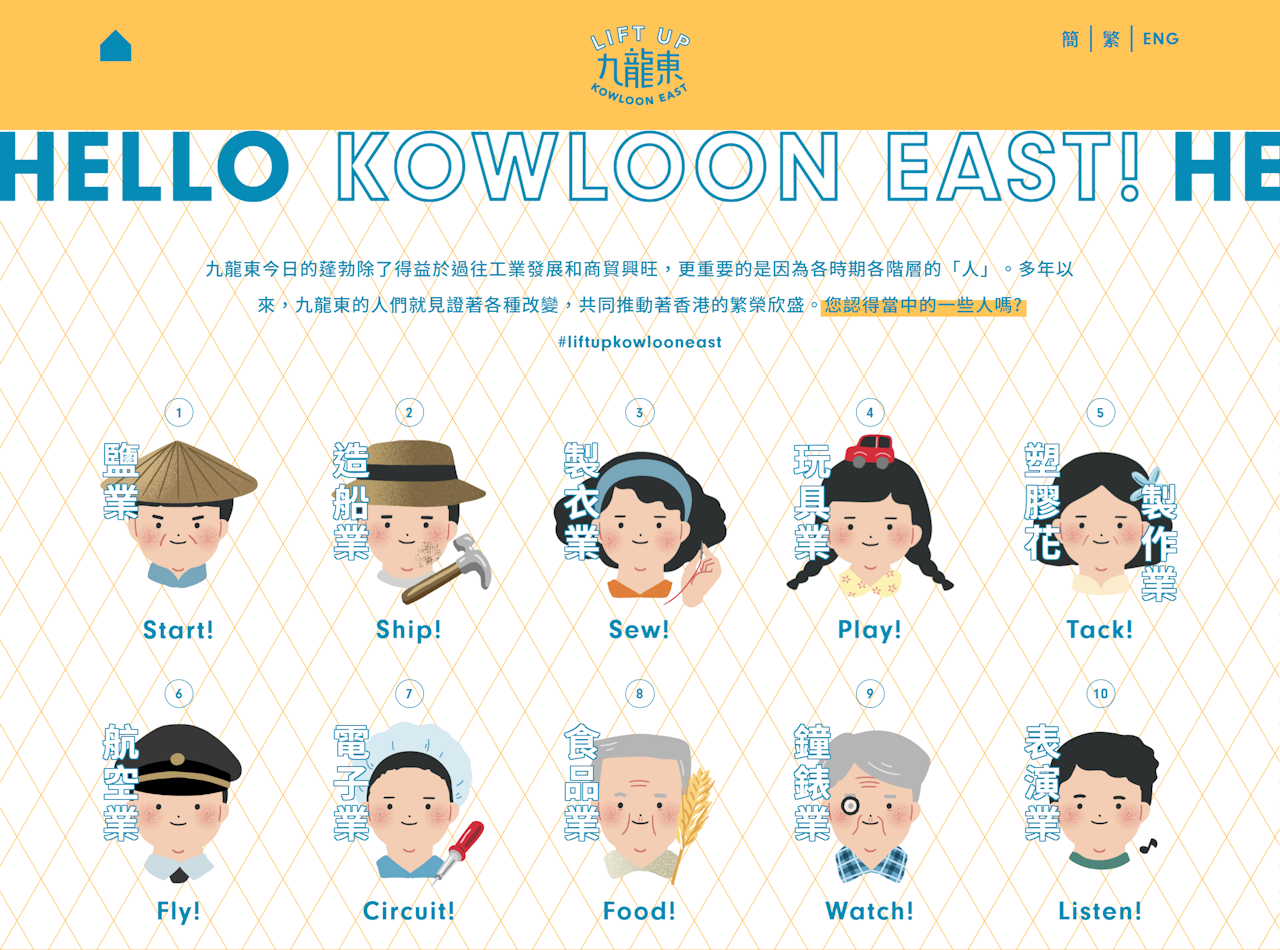
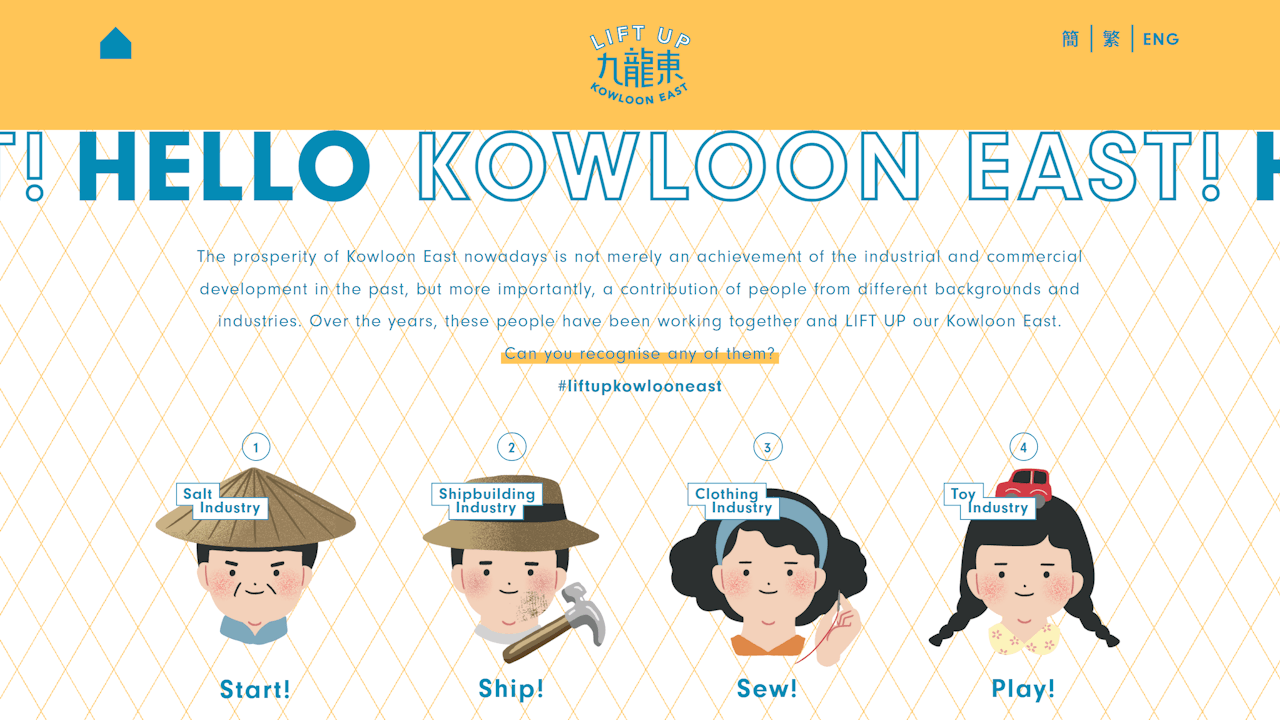
feat: update projects and add detail page

diff --git a/content/about.md b/content/about.md
@@ -1,11 +1,10 @@
-+++
-description = 'Eric Wong is experienced in full stack web development, cybersecurity consulting, penetration testing, red teaming, and project management. Do you have project ideas you want to realize? Get in touch now!'
-+++
+---
+title: 'About me'
+description: 'Eric Wong is experienced in full stack web development, cybersecurity consulting, penetration testing, red teaming, and project management. Do you have project ideas you want to realize? Get in touch now!'
+---
 
-# About me
-
-I enjoy learning new technologies, and are interested in cybersecurity, web development, system optimization, DevOps, and process automation. I am experienced in full stack web development (custom backend, frontend, and SEO), cybersecurity consulting, penetration testing, red teaming, and project management.
+I enjoy learning new technologies, and are interested in cybersecurity, web development, system optimization, DevOps, and process automation. I am experienced in full stack web development (custom backend, frontend, and SEO), cloud infrastructure, cybersecurity consulting, penetration testing, red teaming, and project management.
 
 I am also the creator of [LINE Rangers Handbook](https://rangers.lerico.net), an automatically updated reference website renowned among "LINE Rangers" players.
 
-Do you have project ideas you want to realize? [Get in touch now](mailto:eric@lerico.net) !
+Do you have project ideas you want to realize? [Send me an email](mailto:eric@lerico.net) !

diff --git a/content/projects/2307.lets-think-about-lantau-link.md b/content/projects/2307.lets-think-about-lantau-link.md
@@ -1,0 +1,17 @@
+---
+title: 'Let’s Think about Lantau Link'
+summary: 'Public Engagement Website. Minigame. Proposal submission and voting platform.'
+description: 'The Let’s Think about Lantau Link campaign website provides information about the campaign, collects proposals from the general public, and holds the voting event using a customized backend.'
+
+image: '/images/portfolio/think-lantau-link-viewing-platform.png'
+---
+
+![Homepage Screenshot](/images/portfolio/think-lantau-link-viewing-platform.png)
+
+{{< linkpill "https://www.thinkllvp.com/" >}}Visit campaign website ➜{{% /linkpill %}}
+
+Let's Think about Lantau Link is a campaign for the revitalization of Lantau Link Viewing Platform (LLVP) public engagement program.
+
+The website provides information about the campaign, collects proposals from the general public, and holds the voting event using a customized backend.
+
+A minigame is included to invite the public to interact, create, and share concept viewing platform designs.

diff --git a/content/projects/2204.lift-up-kowloon-east.md b/content/projects/2204.lift-up-kowloon-east.md
@@ -1,0 +1,15 @@
+---
+title: 'Lift Up Kowloon East'
+summary: 'Public Engagement Website and AR Filter Development.'
+description: 'The website communiates the murals'' design concepts to the public, and a set of 30 AR filters were developed to enhance engagement and create an interactive experience for the visitors.'
+
+image: '/images/portfolio/lift-up-kowloon-east.png'
+---
+
+![Homepage Screenshot](/images/portfolio/lift-up-kowloon-east.png)
+
+{{< linkpill "https://www.liftupkowlooneast.com/" >}}Visit site ➜{{% /linkpill %}}
+
+"Lift Up Kowloon East" is the winning entry to the "City Dress-up Design Competition - Flyover Fantasy Re-Run" competition, and is now the theme for the giant murals designs for the columns under the Kwun Tong Bypass.
+
+The website communiates the murals' design concepts to the public, and a set of 30 AR filters were developed to enhance engagement and create an interactive experience for the visitors.

diff --git a/content/_index.md b/content/_index.md
@@ -1,6 +1,6 @@
-+++
-description = 'Hello there! I am Eric Wong, I enjoy learning new technologies, and are interested in cybersecurity and web development. I also do freelance website and system development, get in touch if you would like to talk!'
-+++
+---
+description: 'Hello there! I am Eric Wong, I enjoy learning new technologies, and are interested in cybersecurity and web development. I also do freelance website and system development, get in touch if you would like to talk!'
+---
 
 Hello there! I am Eric Wong, I enjoy learning new technologies, and are interested in cybersecurity, web development, system optimization, DevOps, and process automation.
 I also do freelance website and system development, [learn more about me](/about), check out [my portfolio](/portfolio), and get in touch if you would like to talk!

diff --git a/content/projects/_index.md b/content/projects/_index.md
@@ -1,5 +1,5 @@
 ---
-title: 'Portfolio'
+title: 'Projects'
 draft: false
 description: 'Selected works that I am proud that I took part in.'
 ---
